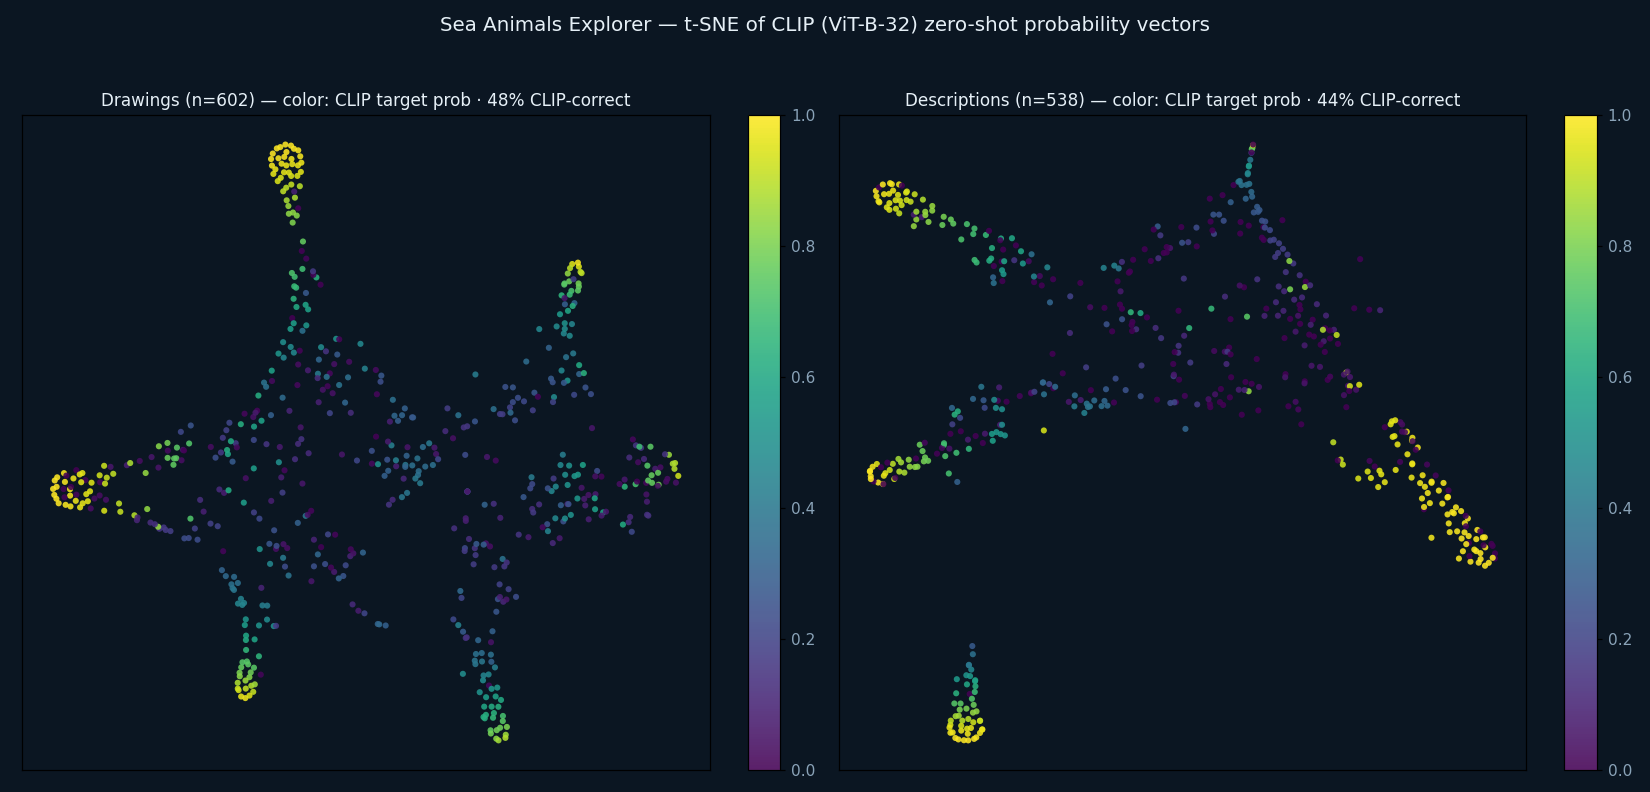
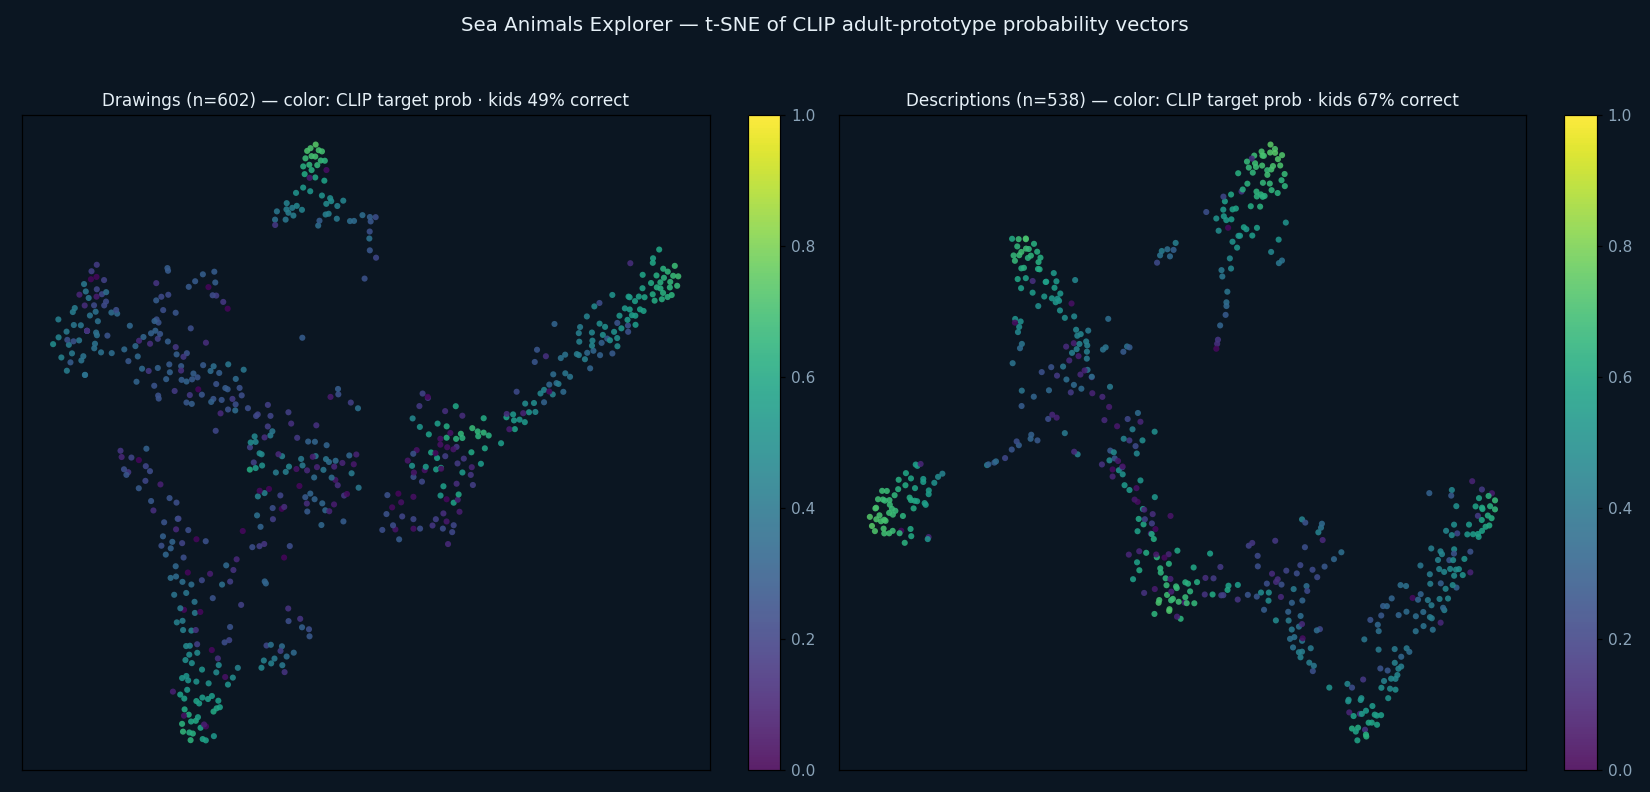
Fix miscalibrated CLIP classification; add cross-modal scatter
The text classification was overconfident and biased (49% of prob mass
saturated to 0/1, a systematic "shark" default) because it scored child
descriptions against bare label anchors ("a crab") via text-text CLIP and
multiplied by the image logit-scale (100). This produced greenish-yellow
points that were actually misclassified.

Fix: classify each item against the six ADULT prototypes of its own modality
(mean adult embedding per category — the study's own recognizability
reference) with a self-calibrating z-scored softmax; leave-one-out for adults.
Results: descriptions 43%->67% kids, drawings 44%->49% kids, saturation
49%->0%, no high-prob-but-wrong points. "claws and pinches" now -> crab.
Cross-modal agreement 0.47->0.76; age->alignment r +0.13->+0.27.

Also add a drawing-vs-description scatter in the right column that plots the
two modalities against each other for the currently-shown metric/age group,
with a Pearson r.

diff --git a/index.html b/index.html
@@ -31,6 +31,12 @@
   .chip { cursor:pointer; width:auto; padding:5px 9px; font-size:11.5px; border-radius:20px; }
   .chip:hover { border-color:var(--accent); }
   .chip.on { background:var(--accent); color:#06202a; border-color:var(--accent); }
+  /* cross-modal scatter */
+  #xmodal { margin-bottom:16px; }
+  #xmodal .ttl2 { font-size:11px; text-transform:uppercase; letter-spacing:.04em; color:var(--muted); margin-bottom:6px; }
+  #xmCanvas { width:100%; display:block; background:var(--panel2); border:1px solid var(--line); border-radius:8px; }
+  #xmNote { font-size:11px; color:var(--txt); margin-top:6px; }
+  #xmNote b { color:var(--accent); }
   #catlist { border:1px solid var(--line); border-radius:8px; padding:6px 8px; background:var(--panel2);
     display:grid; grid-template-columns:1fr 1fr; gap:1px 10px; }
   #catlist label { display:flex; align-items:center; gap:6px; font-size:12px; cursor:pointer; text-transform:capitalize; padding:2px 0; }
@@ -153,6 +159,11 @@
   </main>
 
   <aside id="detail">
+    <div id="xmodal">
+      <div class="ttl2" id="xmTitle">Drawing vs description</div>
+      <canvas id="xmCanvas" width="258" height="200"></canvas>
+      <div id="xmNote"></div>
+    </div>
     <label class="h" style="font-weight:600;font-size:11px;letter-spacing:.04em;text-transform:uppercase;color:var(--muted);">Selected item</label>
     <div class="empty" id="detailEmpty">Hover a point in either panel to see the same child's drawing and description together.</div>
     <div id="card">
@@ -369,6 +380,52 @@ function updateStat(){
   document.getElementById("visStat").textContent= paired
     ? `${paired} items have BOTH modalities visible · mean drawing↔description agreement ${(asum/paired).toFixed(2)} · same CLIP guess ${Math.round(100*atop/paired)}%`
     : `No items with both modalities visible under the current filters.`;
+  renderScatter();
+}
+
+// ---------- cross-modal scatter: drawing metric (x) vs description metric (y) ----------
+const SCATTER_METRICS = {
+  clip_tp:    {label:"CLIP target prob",       lo:0,    hi:1},
+  clip_logodds:{label:"CLIP log-odds",         lo:-10,  hi:6},
+  recog:      {label:"similarity to adult",    lo:-0.4, hi:0.9},
+  conf:       {label:"confusion strength",     lo:0,    hi:1},
+};
+function renderScatter(){
+  const cv=document.getElementById("xmCanvas"), ctx=cv.getContext("2d");
+  const dpr=window.devicePixelRatio||1, W=cv.clientWidth||258, H=200;
+  cv.width=W*dpr; cv.height=H*dpr; cv.style.height=H+"px"; ctx.setTransform(dpr,0,0,dpr,0,0);
+  ctx.clearRect(0,0,W,H);
+  const key = SCATTER_METRICS[colorMode] ? colorMode : "clip_tp";
+  const M = SCATTER_METRICS[key];
+  document.getElementById("xmTitle").textContent = `Drawing vs description · ${M.label}`;
+  // gather visible pairs (drawing value x, description value y)
+  const D=ALL.drawings, T=ALL.descriptions, pts=[], xs=[], ys=[];
+  for(let i=0;i<D.n;i++){ if(!passes(D,i)) continue; const j=D.partner[i]; if(j<0||!passes(T,j)) continue;
+    const x=D[key][i], y=T[key][j]; if(x==null||y==null) continue;
+    pts.push([x,y,D.cat[i]]); xs.push(x); ys.push(y); }
+  const m=44, l=34, b=26;                      // plot margins
+  const X=v=>l+( (v-M.lo)/(M.hi-M.lo) )*(W-l-8);
+  const Y=v=>H-b-( (v-M.lo)/(M.hi-M.lo) )*(H-b-8);
+  // axes + y=x diagonal
+  ctx.strokeStyle="#2a3a4a"; ctx.lineWidth=1;
+  ctx.strokeRect(l, 8, W-l-8, H-b-8);
+  ctx.strokeStyle="#3a4f63"; ctx.setLineDash([3,3]); ctx.beginPath();
+  ctx.moveTo(X(M.lo),Y(M.lo)); ctx.lineTo(X(M.hi),Y(M.hi)); ctx.stroke(); ctx.setLineDash([]);
+  ctx.fillStyle="#8aa3b8"; ctx.font="9px sans-serif";
+  ctx.fillText("drawing →", W/2-18, H-6);
+  ctx.save(); ctx.translate(9,H/2+20); ctx.rotate(-Math.PI/2); ctx.fillText("description →",0,0); ctx.restore();
+  // points coloured by category
+  ctx.globalAlpha=0.8;
+  for(const [x,y,c] of pts){ ctx.fillStyle=catColor(c,CATS.length); ctx.beginPath(); ctx.arc(X(x),Y(y),2.6,0,6.283); ctx.fill(); }
+  ctx.globalAlpha=1;
+  // Pearson r
+  const note=document.getElementById("xmNote");
+  if(xs.length>=4){
+    const n=xs.length, mx=xs.reduce((s,v)=>s+v,0)/n, my=ys.reduce((s,v)=>s+v,0)/n;
+    let sxy=0,sxx=0,syy=0; for(let k=0;k<n;k++){ const dx=xs[k]-mx, dy=ys[k]-my; sxy+=dx*dy; sxx+=dx*dx; syy+=dy*dy; }
+    const r=sxy/(Math.sqrt(sxx*syy)+1e-9);
+    note.innerHTML=`${n} pairs · drawing–description ${M.label}: <b>r = ${r.toFixed(2)}</b>`;
+  } else { note.textContent=`${xs.length} pairs — not enough to correlate.`; }
 }
 
 // ---------- category checklist ----------
@@ -418,7 +475,7 @@ document.getElementById("kidsOnly").onchange=e=>{F.kidsOnly=e.target.checked;dra
 document.getElementById("pairedOnly").onchange=e=>{F.pairedOnly=e.target.checked;drawAll();updateStat();};
 document.getElementById("correctOnly").onchange=e=>{F.correctOnly=e.target.checked;drawAll();updateStat();};
 document.getElementById("reset").onclick=()=>{PD.reset();PT.reset();};
-window.addEventListener("resize",()=>{PD.resize();PT.resize();});
+window.addEventListener("resize",()=>{PD.resize();PT.resize();renderScatter();});
 
 // track which pane the pointer last hovered (for card highlight)
 document.getElementById("paneDraw").addEventListener("mousemove",()=>_lastPane='drawings');

diff --git a/build_data.py b/build_data.py
@@ -109,6 +109,31 @@ def clip_scores(prob, cat_i):
                 clip_max=round(float(prob.max()), 4))
 
 
+def prototype_classify(embs, cats_arr, isad):
+    """Classify each item against the six ADULT prototypes (mean adult embedding
+    per category) of the same modality — the study-aligned approach. For adult
+    items, leave-one-out their own embedding from their category prototype.
+    Returns a list of 6-way (z-softmax) probability vectors."""
+    E = np.asarray(embs)
+    K, d = len(CATEGORIES), E.shape[1]
+    psum = np.zeros((K, d)); pn = np.zeros(K)
+    for c in range(K):
+        sel = [i for i in range(len(E)) if isad[i] and cats_arr[i] == c]
+        if sel:
+            psum[c] = E[sel].sum(0); pn[c] = len(sel)
+    out = []
+    for i in range(len(E)):
+        protos = np.empty((K, d))
+        for c in range(K):
+            s, n = psum[c].copy(), pn[c]
+            if isad[i] and cats_arr[i] == c:          # leave-one-out for adults
+                s, n = s - E[i], n - 1
+            v = s / max(n, 1.0)
+            protos[c] = v / (np.linalg.norm(v) + 1e-9)
+        out.append(clip_lib.prototype_probs(E[i], protos))
+    return out
+
+
 # ---------------------------------------------------------------- drawings
 def build_drawings():
     rows = clean_rows(DRAW_CSV, "draw_exists", "draw_interference")
@@ -117,16 +142,10 @@ def build_drawings():
     os.makedirs(DRAW_DIR, exist_ok=True)
     coll = None  # lazy Mongo only if an image is missing
 
-    anchors = clip_lib.anchor_feats("draw")
-    P = {k: [] for k in ("pid", "file", "cat", "age", "is_adult", "recog", "conf",
-                         "conf_with", "strokes", "duration", "intensity", "clip_probs",
-                         "clip_tp", "clip_guess", "clip_correct", "clip_logodds", "clip_max")}
-    layout = []
-    skipped = 0
+    kept, embs, skipped = [], [], 0
     for j, r in enumerate(rows):
         pid, cat = r["participant_id"], r["target_category"]
-        fname = f"{cat}_{pid}.png"
-        path = os.path.join(DRAW_DIR, fname)
+        path = os.path.join(DRAW_DIR, f"{cat}_{pid}.png")
         if not os.path.exists(path):
             if coll is None:
                 coll = mongo_coll()
@@ -135,14 +154,26 @@ def build_drawings():
                 skipped += 1
                 continue
             save_png(doc, path)
-        prob = clip_lib.classify_image(path, anchors)
+        embs.append(clip_lib.image_embedding(path)); kept.append(r)
+        if (j + 1) % 100 == 0:
+            print(f"    {j + 1}/{len(rows)} drawings encoded")
+    cats_arr = [CAT_IDX[r["target_category"]] for r in kept]
+    isad = [r["is_adult"] == "True" for r in kept]
+    probs = prototype_classify(embs, cats_arr, isad)
+
+    P = {k: [] for k in ("pid", "file", "cat", "age", "is_adult", "recog", "conf",
+                         "conf_with", "strokes", "duration", "intensity", "clip_probs",
+                         "clip_tp", "clip_guess", "clip_correct", "clip_logodds", "clip_max")}
+    layout = []
+    for r, prob in zip(kept, probs):
+        pid, cat, ci = r["participant_id"], r["target_category"], CAT_IDX[r["target_category"]]
         layout.append([round(float(x), 5) for x in prob])
         P["clip_probs"].append([round(float(x), 4) for x in prob])
         vec, conf, conf_with = confusion(r, "draw")
         rc = fnum(r["draw_cossim_adults"])
         P["pid"].append(pid)
-        P["file"].append(fname)
-        P["cat"].append(CAT_IDX[cat])
+        P["file"].append(f"{cat}_{pid}.png")
+        P["cat"].append(ci)
         P["age"].append(round(fnum(r["age_yrs"]) or 0, 1))
         P["is_adult"].append(1 if r["is_adult"] == "True" else 0)
         P["recog"].append(round(rc, 4) if rc is not None else None)
@@ -151,10 +182,8 @@ def build_drawings():
         P["strokes"].append(fnum(r["num_strokes"]))
         P["duration"].append(round(fnum(r["draw_duration"]) or 0, 1))
         P["intensity"].append(round(fnum(r["mean_intensity"]) or 0, 4))
-        for k, v in clip_scores(prob, CAT_IDX[cat]).items():
+        for k, v in clip_scores(prob, ci).items():
             P[k].append(v)
-        if (j + 1) % 100 == 0:
-            print(f"    {j + 1}/{len(rows)} drawings classified")
     P["x"], P["y"] = tsne_layout(layout)
     P["n"] = len(P["file"])
     print(f"  -> {P['n']} drawings ({skipped} skipped: no image)")
@@ -166,34 +195,39 @@ def build_descriptions():
     rows = clean_rows(TALK_CSV, "utterance_exists", "utterance_interference")
     nk = len({r["participant_id"] for r in rows if r["is_child"] == "True"})
     print(f"DESCRIPTIONS: {len(rows)} clean ({nk} children + adults)")
-    anchors = clip_lib.anchor_feats("text")
+    kept, embs = [], []
+    for j, r in enumerate(rows):
+        text = (r["utterance_full_masked_filtered"] or "").strip()
+        if not text:
+            continue
+        embs.append(clip_lib.text_embedding(text)); kept.append((r, text))
+        if (j + 1) % 100 == 0:
+            print(f"    {j + 1}/{len(rows)} descriptions encoded")
+    cats_arr = [CAT_IDX[r["target_category"]] for r, _ in kept]
+    isad = [r["is_adult"] == "True" for r, _ in kept]
+    probs = prototype_classify(embs, cats_arr, isad)
+
     P = {k: [] for k in ("pid", "text", "cat", "age", "is_adult", "recog", "conf",
                          "conf_with", "nwords", "clip_probs",
                          "clip_tp", "clip_guess", "clip_correct", "clip_logodds", "clip_max")}
     layout = []
-    for j, r in enumerate(rows):
-        cat = r["target_category"]
-        text = (r["utterance_full_masked_filtered"] or "").strip()
-        if not text:
-            continue
-        prob = clip_lib.classify_text(text, anchors)
+    for (r, text), prob in zip(kept, probs):
+        ci = CAT_IDX[r["target_category"]]
         layout.append([round(float(x), 5) for x in prob])
         P["clip_probs"].append([round(float(x), 4) for x in prob])
         vec, conf, conf_with = confusion(r, "utterance")
         rc = fnum(r["utterance_full_cossim_adults"])
         P["pid"].append(r["participant_id"])
         P["text"].append(text)
-        P["cat"].append(CAT_IDX[cat])
+        P["cat"].append(ci)
         P["age"].append(round(fnum(r["age_yrs"]) or 0, 1))
         P["is_adult"].append(1 if r["is_adult"] == "True" else 0)
         P["recog"].append(round(rc, 4) if rc is not None else None)
         P["conf"].append(conf)
         P["conf_with"].append(conf_with)
         P["nwords"].append(len(text.split()))
-        for k, v in clip_scores(prob, CAT_IDX[cat]).items():
+        for k, v in clip_scores(prob, ci).items():
             P[k].append(v)
-        if (j + 1) % 100 == 0:
-            print(f"    {j + 1}/{len(rows)} descriptions classified")
     P["x"], P["y"] = tsne_layout(layout)
     P["n"] = len(P["text"])
     print(f"  -> {P['n']} descriptions")

diff --git a/clip_lib.py b/clip_lib.py
@@ -50,8 +50,8 @@ def anchor_feats(which):
     return _encode_text(DRAW_ANCHORS if which == "draw" else TEXT_ANCHORS)
 
 
-def classify_image(path, anchors, content_crop=True):
-    """Return a length-6 softmax probability vector for one drawing PNG."""
+def image_embedding(path, content_crop=True):
+    """L2-normalized CLIP image embedding (512-d numpy) for one drawing PNG."""
     m = _load()
     img = Image.open(path).convert("RGB")
     if content_crop:
@@ -66,31 +66,31 @@ def classify_image(path, anchors, content_crop=True):
         x = m["preprocess"](img).unsqueeze(0).to(m["device"])
         f = m["model"].encode_image(x)
         f = f / f.norm(dim=-1, keepdim=True)
-        logits = m["logit_scale"] * f @ anchors.T
-        p = logits.softmax(dim=-1).cpu().numpy()[0]
-    return p
+    return f.cpu().numpy()[0]
 
 
-def _chunk(text, tok, max_len=75):
-    """Split into <=max_len-token chunks (CLIP's 77-token limit), evenly."""
-    ids = tok([text])  # open_clip tokenizer pads to context; recover raw length
-    # fall back to a simple word-based chunk: ~50 words ~ <75 tokens
+def _chunk(text, max_len=50):
+    """Split long text into word chunks (CLIP's 77-token limit ~ 50 words)."""
     words = text.split()
-    if len(words) <= 50:
+    if len(words) <= max_len:
         return [text]
-    n = math.ceil(len(words) / 50)
+    n = math.ceil(len(words) / max_len)
     size = math.ceil(len(words) / n)
     return [" ".join(words[i:i + size]) for i in range(0, len(words), size)]
 
 
-def classify_text(text, anchors):
-    """Return a length-6 softmax probability vector for one utterance."""
-    m = _load()
-    chunks = _chunk(text, m["tok"])
-    feats = _encode_text(chunks)              # (k, d), already L2-normalized
+def text_embedding(text):
+    """L2-normalized CLIP text embedding (512-d numpy), averaged over chunks."""
+    feats = _encode_text(_chunk(text))        # (k, d), already L2-normalized
     f = feats.mean(dim=0, keepdim=True)
     f = f / f.norm(dim=-1, keepdim=True)
-    with torch.no_grad():
-        logits = m["logit_scale"] * f @ anchors.T
-        p = logits.softmax(dim=-1).cpu().numpy()[0]
-    return p
+    return f.cpu().numpy()[0]
+
+
+def prototype_probs(emb, protos):
+    """6-way probabilities for an item: cosine to each adult prototype, then a
+    self-calibrating (z-scored) softmax so probs are graded, not saturated."""
+    sims = emb @ protos.T
+    z = (sims - sims.mean()) / (sims.std() + 1e-9)
+    p = np.exp(z)
+    return p / p.sum()

diff --git a/README.md b/README.md
@@ -20,11 +20,13 @@ correspond.
 **Drawing ↔ description agreement.** For the 527 child × category items that have
 both modalities, the page scores how much CLIP's classification of the drawing
 agrees with its classification of the description (cosine of the two 6-way
-probability vectors, plus a same-top-guess flag). Color by it, and the detail
-panel charts **mean alignment by age** with a Pearson *r* — consistent with the
-prediction that cross-modal alignment increases with age (r ≈ +0.13 across 411
-child pairs; mean alignment ~0.31 at age 3 → ~0.55 by age 10). Use the **age
-chips** to isolate a single year (or adults) in both panels at once.
+probability vectors, plus a same-top-guess flag). Color by it, use the **age
+bins** (3–5 / 6–8 / 9–12) to filter both panels at once, and read the visible
+mean off the footer — **consistent with the prediction that cross-modal alignment
+increases with age** (Pearson r ≈ +0.27 across 411 child pairs; bin means rise
+0.67 → 0.76 → 0.79, and ~0.61 at age 3 → ~0.81 by age 11). A small **drawing-vs-
+description scatter** in the right column plots the two modalities against each
+other for whichever metric/age group is currently shown, with its own *r*.
 
 ## What it shows
 
@@ -54,19 +56,28 @@ count, child/adult split, % CLIP-correct, and mean target probability.
 
 ## How the CLIP classification is computed
 
-The source repo stores CLIP **image embeddings** and within-subject / to-adult
-*similarities*, but **not** a zero-shot category classification — so this repo
-computes it (`clip_lib.py`):
+The source repo stores CLIP **embeddings** and within-subject / to-adult
+*similarities*, but **not** a category classification — so this repo computes one
+(`clip_lib.py`, OpenCLIP **ViT-B-32**, `pretrained="openai"`). Each item is
+classified against the six **adult prototypes** of its own modality — the mean
+adult embedding per category — exactly the reference the study uses for
+recognizability:
 
-- **Drawings:** each PNG is content-cropped and encoded with CLIP, then scored
-  against the six text anchors `"a drawing of a {category}"`; softmax over the
-  cosine similarities (CLIP's logit scale) gives the 6-way probability vector.
+- **Drawings:** each PNG is content-cropped and encoded with the CLIP image
+  encoder; cosine similarity to the six adult *drawing* prototypes → probabilities.
 - **Descriptions:** each masked transcript is encoded with the CLIP text encoder
-  (chunked and averaged past the 77-token limit) and scored against `"a
-  {category}"` anchors the same way.
+  (chunked and averaged past the 77-token limit); cosine similarity to the six
+  adult *description* prototypes → probabilities.
 
-CLIP top-1 accuracy: **48% on drawings, 44% on descriptions** (chance = 17%);
-adults score higher than children in both, as expected.
+Probabilities come from a self-calibrating (z-scored) softmax over the six
+similarities, so they're graded rather than saturated. Adult items leave their
+own embedding out of their category prototype.
+
+Using adult prototypes instead of bare text labels (`"a crab"`) matters a lot for
+descriptions: e.g. *"it has claws and it pinches people"* classifies as **crab**,
+where label-anchored CLIP wrongly called it a shark. CLIP top-1 accuracy:
+**49% on children's drawings, 67% on children's descriptions** (chance = 17%;
+adults 78% / 80%).
 
 ## Run locally
 